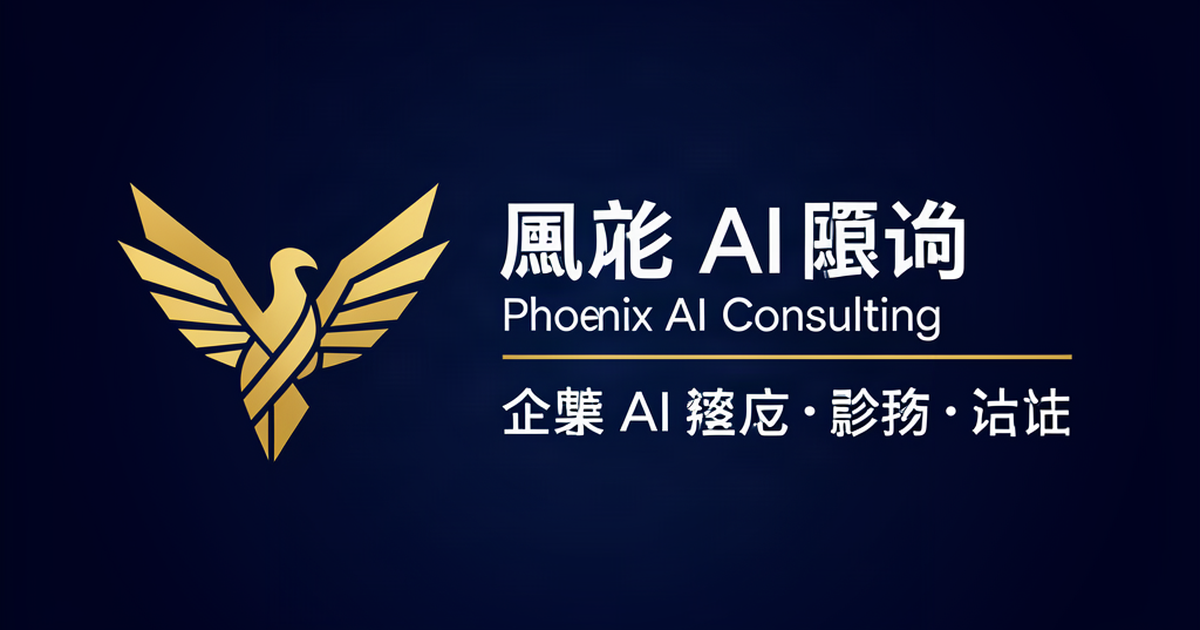
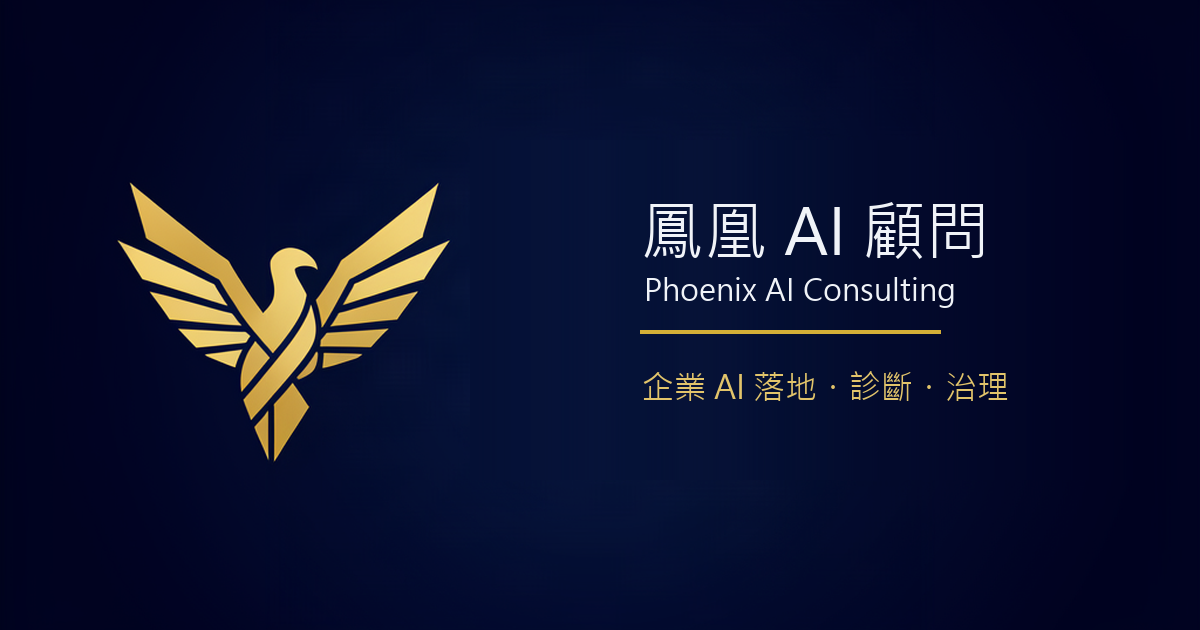
fix(site): redraw og-image text to correct Traditional Chinese (Phoenix brand + tagline)
AI-generated og:image (2026-08-05 SEO pass) had garbled Chinese:
- Brand name 鳳凰 rendered as 鳳龍
- Tagline 企業 AI 落地・診斷・治理 rendered as mojibake
- English 'Phoenix' truncated

Kept the golden phoenix emblem, redrew right-side text block with
Microsoft JhengHei via PIL, per-column gradient background rebuild.
Shared by all pages' og:image/twitter:image.

Changed region(s): [[0.4008, 0.3016, 0.8942, 0.6937]]

diff --git a/CHANGELOG.md b/CHANGELOG.md
@@ -6,6 +6,12 @@
 
 ## [Unreleased] - 2026-07-27
 
+### Fixed
+- **修正全站分享圖 `assets/og-image.png` 中文亂碼（2026-08-10）**
+  - 根因：8/5 SEO 統一時以 AI 生成品牌圖，AI 將繁體中文烤成亂碼：主標題「鳳凰」變「鳳龍」、tagline「企業 AI 落地・診斷・治理」變「企業 AI 癥応・診務・詰詛」、英文 Phoenix 被切斷。
+  - 修法：保留左側金色鳳凰圖案，以微軟正黑體 + PIL 程式重繪右側文字區（鳳凰 AI 顧問 / Phoenix AI Consulting / 企業 AI 落地・診斷・治理）；背景依原圖漸層逐欄重建，無色塊接縫。
+  - 驗證：vision 逐行文字正確、鳳凰完整、無殘留舊字、無色差（全站 og:image / twitter:image 共用此檔，一併修正）。
+
 ### Added
 - **Enterprise RAG Foundation 官網上架（Phase 1）**
   - 規劃：`docs/RAG_FOUNDATION_SITE_INTEGRATION_PLAN.md`
